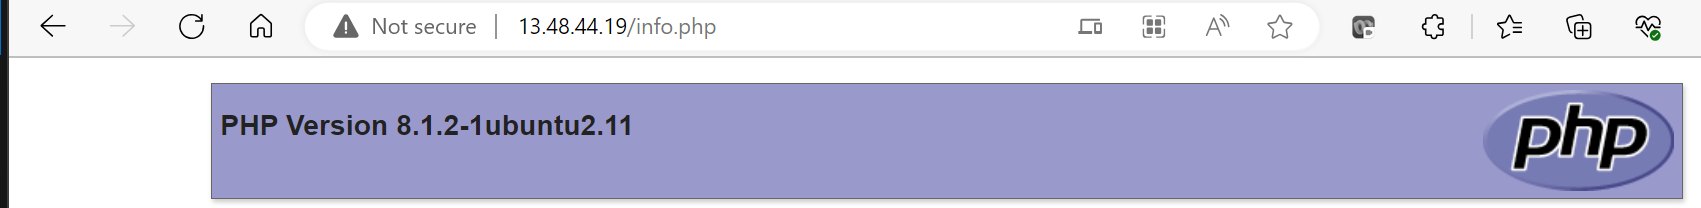
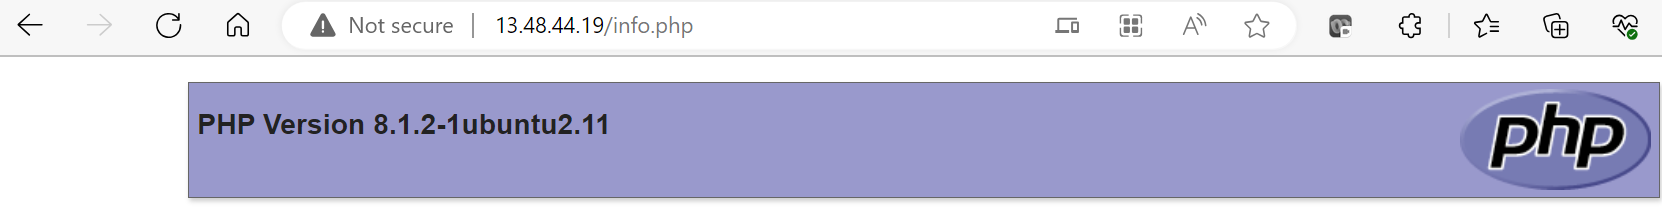
make changes

diff --git a/project2.md b/project2.md
@@ -103,6 +103,15 @@ server {
 
 ### Testing PHP with NGINX
 
+`sudo nano /var/www/projectLEMP/info.php`
+
+`<?php
+phpinfo();`
+
+[test PHP with NGINX](http://http://13.48.44.19/info.php)
+
+![test PHP with NGINX](.\images\php-nginx-test.PNG)
+
 
 
 
